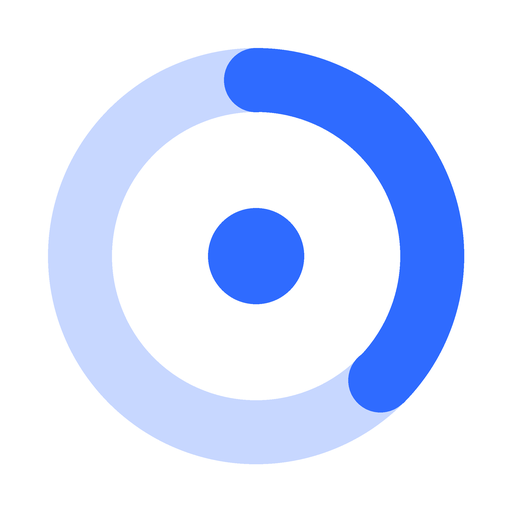
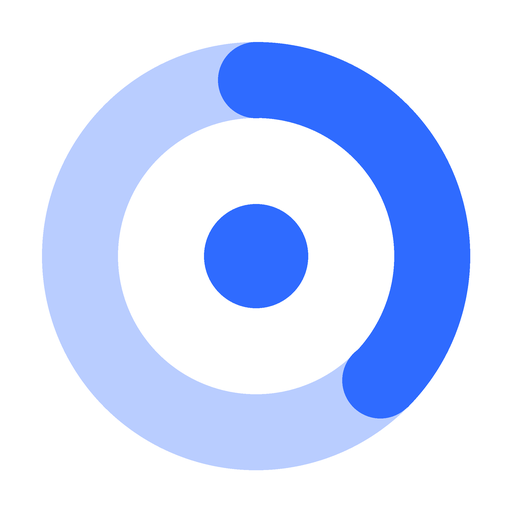
Лого заметнее: дорожка кольца видна на тёмной теме, знак крупнее
На тёмной теме дорожка красилась в --accent-soft и почти сливалась с
фоном — знак читался как одинокий полумесяц. Теперь дорожка это сам
акцент с прозрачностью 0.26: работает одинаково в обеих темах и
переживает смену акцента в настройках. Обводка 8 → 9.5 (в 16px фавикона
тонкое кольцо превращалось в нитку), знак в шапке 34 → 42px. icon.svg и
аватар бота пересобраны с той же геометрией.

diff --git a/lifeos-agent/app/web/static/index.html b/lifeos-agent/app/web/static/index.html
@@ -116,13 +116,22 @@
      счётчик цифр), поэтому лого не выглядит отдельным аттракционом.
      Точка в центре после этого тихо пульсирует: страница живая, данные
      на ней — сегодняшние. */
-  .brand { display: flex; align-items: center; gap: 10px; }
-  .brand-mark { width: 34px; height: 34px; flex: none; }
-  .brand-track { fill: none; stroke: var(--accent-soft); stroke-width: 8; }
+  .brand { display: flex; align-items: center; gap: 11px; }
+  .brand-mark { width: 42px; height: 42px; flex: none; }
+  /* Дорожка кольца — сам акцент с прозрачностью, а не --accent-soft:
+     на тёмной теме accent-soft почти сливается с фоном, и знак читался
+     как одинокий полумесяц. Прозрачность работает одинаково в обеих
+     темах и переживает смену акцента в настройках. */
+  .brand-track {
+    fill: none;
+    stroke: var(--accent);
+    opacity: 0.26;
+    stroke-width: 9.5;
+  }
   .brand-arc {
     fill: none;
     stroke: var(--accent);
-    stroke-width: 8;
+    stroke-width: 9.5;
     stroke-linecap: round;
     /* Длина дуги — 52 (r=22, сектор 135°: 22 × 2.356). Задана числом, а
        не через getTotalLength(): без JS и без скачка на первом кадре.
